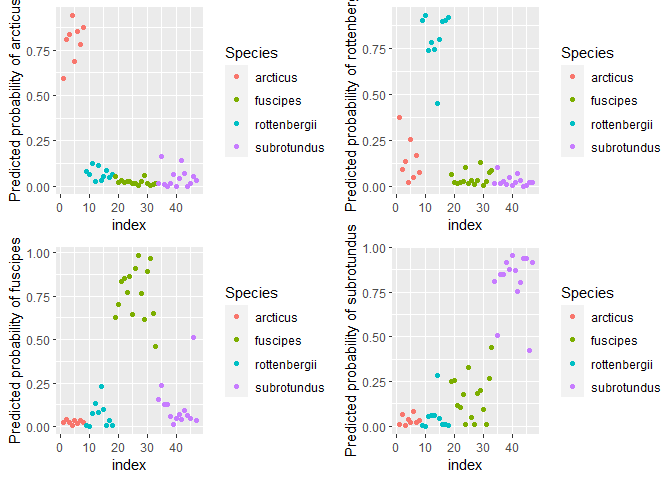
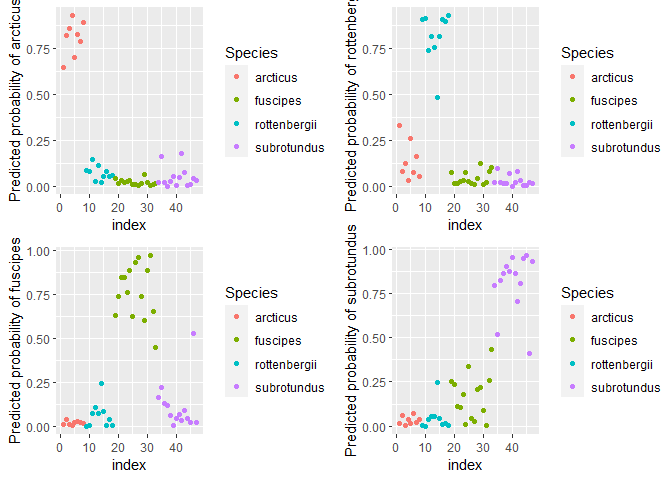
RF model using 25-75 split

diff --git a/ML_Beetles_analysis.md b/ML_Beetles_analysis.md
@@ -466,7 +466,7 @@ train_ctrl <- trainControl(method="cv", # type of resampling in this case Cross-
                            number=10, # number of folds
                            search = "grid", # we are performing a "grid search" for tuning
                            )
-set.seed(301)
+set.seed(874)
 model_rf_60_40 <- train(morphotype ~ .,
                        data = beetle_data_train_60_40,
                        method = "rf", # this will use the randomForest::randomForest function
@@ -488,20 +488,20 @@ model_rf_60_40
 
     No pre-processing
     Resampling: Cross-Validated (10 fold) 
-    Summary of sample sizes: 69, 70, 68, 67, 67, 68, ... 
+    Summary of sample sizes: 69, 66, 68, 69, 69, 68, ... 
     Resampling results across tuning parameters:
 
       mtry  Accuracy   Kappa    
        2    1.0000000  1.0000000
-       3    0.9875000  0.9833333
+       3    1.0000000  1.0000000
        4    1.0000000  1.0000000
-       6    0.9888889  0.9852459
-       7    0.9888889  0.9852459
-       9    0.9888889  0.9852459
-      10    0.9888889  0.9852459
-      12    0.9888889  0.9852459
-      13    0.9763889  0.9685792
-      15    0.9888889  0.9852459
+       6    0.9857143  0.9805556
+       7    0.9857143  0.9805556
+       9    0.9857143  0.9805556
+      10    0.9857143  0.9805556
+      12    0.9857143  0.9805556
+      13    0.9857143  0.9805556
+      15    0.9857143  0.9805556
 
     Accuracy was used to select the optimal model using the largest value.
     The final value used for the model was mtry = 2.
@@ -658,3 +658,209 @@ ggplot(TEST_scored_60_40, aes(x = 1:nrow(TEST_scored_60_40), y = class_60_40, co
 ```
 
 ![](ML_Beetles_analysis_files/figure-gfm/60_40%20plots-2.png)<!-- -->
+
+## Train and test a random forest model: 25-75 split
+
+Next, I will do training and evaluating the 25-75 split. Doing parameter
+tuning for the number of randomly selected predictors in each split
+(mtry), while keeping number of trees constant (ntree=1000). Could also
+tune the number of trees, but seems ok like this for this toy example.
+
+``` r
+# Tuning parameters: using 10-fold cross-validation with a grid search 
+train_ctrl <- trainControl(method="cv", # type of resampling in this case Cross-Validated
+                           number=10, # number of folds
+                           search = "grid", # we are performing a "grid search" for tuning
+                           )
+set.seed(35)
+model_rf_25_75 <- train(morphotype ~ .,
+                       data = beetle_data_train_25_75,
+                       method = "rf", # this will use the randomForest::randomForest function
+                       metric = "Accuracy", # which metric should be optimized for 
+                       trControl = train_ctrl,
+                        tuneLength  = 10, # the number mtry to test, 10 different ones here
+                       # options to be passed to randomForest
+                       ntree = 1000,
+                       keep.forest=TRUE,
+                       importance=TRUE) 
+model_rf_25_75
+```
+
+    Random Forest 
+
+    32 samples
+    15 predictors
+     4 classes: 'arcticus', 'fuscipes', 'rottenbergii', 'subrotundus' 
+
+    No pre-processing
+    Resampling: Cross-Validated (10 fold) 
+    Summary of sample sizes: 29, 30, 30, 28, 28, 28, ... 
+    Resampling results across tuning parameters:
+
+      mtry  Accuracy  Kappa    
+       2    0.975     0.9666667
+       3    0.975     0.9666667
+       4    0.975     0.9666667
+       6    0.975     0.9666667
+       7    0.975     0.9666667
+       9    0.975     0.9666667
+      10    0.975     0.9666667
+      12    0.975     0.9666667
+      13    0.975     0.9666667
+      15    0.975     0.9666667
+
+    Accuracy was used to select the optimal model using the largest value.
+    The final value used for the model was mtry = 2.
+
+``` r
+plot(model_rf_25_75)
+```
+
+![](ML_Beetles_analysis_files/figure-gfm/train%2025-75-1.png)<!-- -->
+
+Using 2 randomly selected predictors (mtry=2) during tree splits gives
+best accuracy.
+
+Check variable importance next:
+
+``` r
+varImpPlot(model_rf_25_75$finalModel)
+```
+
+![](ML_Beetles_analysis_files/figure-gfm/varimportance%20train%2025_75-1.png)<!-- -->
+Slightly different from the previous split, but ok.
+
+Next, how are the performance and confusion matrix for train and test
+set:
+
+``` r
+# Train data
+p_train <- predict(model_rf_25_75, beetle_data_train_25_75)
+confusionMatrix(p_train, factor(beetle_data_train_25_75$morphotype))
+```
+
+    Confusion Matrix and Statistics
+
+                  Reference
+    Prediction     arcticus fuscipes rottenbergii subrotundus
+      arcticus            6        0            0           0
+      fuscipes            0       10            0           0
+      rottenbergii        0        0            7           0
+      subrotundus         0        0            0           9
+
+    Overall Statistics
+                                         
+                   Accuracy : 1          
+                     95% CI : (0.8911, 1)
+        No Information Rate : 0.3125     
+        P-Value [Acc > NIR] : < 2.2e-16  
+                                         
+                      Kappa : 1          
+                                         
+     Mcnemar's Test P-Value : NA         
+
+    Statistics by Class:
+
+                         Class: arcticus Class: fuscipes Class: rottenbergii
+    Sensitivity                   1.0000          1.0000              1.0000
+    Specificity                   1.0000          1.0000              1.0000
+    Pos Pred Value                1.0000          1.0000              1.0000
+    Neg Pred Value                1.0000          1.0000              1.0000
+    Prevalence                    0.1875          0.3125              0.2188
+    Detection Rate                0.1875          0.3125              0.2188
+    Detection Prevalence          0.1875          0.3125              0.2188
+    Balanced Accuracy             1.0000          1.0000              1.0000
+                         Class: subrotundus
+    Sensitivity                      1.0000
+    Specificity                      1.0000
+    Pos Pred Value                   1.0000
+    Neg Pred Value                   1.0000
+    Prevalence                       0.2812
+    Detection Rate                   0.2812
+    Detection Prevalence             0.2812
+    Balanced Accuracy                1.0000
+
+``` r
+## 100% accurate on train data
+
+# Test data
+p_test <- predict(model_rf_25_75, beetle_data_test_25_75)
+confusionMatrix(p_test, factor(beetle_data_test_25_75$morphotype))
+```
+
+    Confusion Matrix and Statistics
+
+                  Reference
+    Prediction     arcticus fuscipes rottenbergii subrotundus
+      arcticus           16        0            0           0
+      fuscipes            0       28            0           0
+      rottenbergii        0        0           20           0
+      subrotundus         0        1            0          26
+
+    Overall Statistics
+                                              
+                   Accuracy : 0.989           
+                     95% CI : (0.9403, 0.9997)
+        No Information Rate : 0.3187          
+        P-Value [Acc > NIR] : < 2.2e-16       
+                                              
+                      Kappa : 0.9851          
+                                              
+     Mcnemar's Test P-Value : NA              
+
+    Statistics by Class:
+
+                         Class: arcticus Class: fuscipes Class: rottenbergii
+    Sensitivity                   1.0000          0.9655              1.0000
+    Specificity                   1.0000          1.0000              1.0000
+    Pos Pred Value                1.0000          1.0000              1.0000
+    Neg Pred Value                1.0000          0.9841              1.0000
+    Prevalence                    0.1758          0.3187              0.2198
+    Detection Rate                0.1758          0.3077              0.2198
+    Detection Prevalence          0.1758          0.3077              0.2198
+    Balanced Accuracy             1.0000          0.9828              1.0000
+                         Class: subrotundus
+    Sensitivity                      1.0000
+    Specificity                      0.9846
+    Pos Pred Value                   0.9630
+    Neg Pred Value                   1.0000
+    Prevalence                       0.2857
+    Detection Rate                   0.2857
+    Detection Prevalence             0.2967
+    Balanced Accuracy                0.9923
+
+``` r
+## 1 wrong fuscipes, else all correct
+```
+
+Visualize the performance/predictions
+
+``` r
+# Obtain probabilities and predicted classes
+probs_25_75 <- predict(model_rf_25_75, beetle_data_test_25_75, "prob")
+class_25_75 <- predict(model_rf_25_75, beetle_data_test_25_75, "raw")
+TEST_scored_25_75 <- cbind(beetle_data_test_25_75, probs_25_75, class_25_75)
+
+# plot of probabilities
+p1 <- ggplot(TEST_scored_25_75, aes(x = 1:nrow(TEST_scored_25_75), y = arcticus,
+    color = morphotype)) + geom_point() + labs(color = "Species", x = "index", y = "Predicted probability of arcticus")
+p2 <- ggplot(TEST_scored_25_75, aes(x = 1:nrow(TEST_scored_25_75), y = rottenbergii,
+    color = morphotype)) + geom_point() + labs(color = "Species", x = "index", y = "Predicted probability of rottenbergii")
+p3 <- ggplot(TEST_scored_25_75, aes(x = 1:nrow(TEST_scored_25_75), y = fuscipes,
+    color = morphotype)) + geom_point() + labs(color = "Species", x = "index", y = "Predicted probability of fuscipes")
+p4 <- ggplot(TEST_scored_25_75, aes(x = 1:nrow(TEST_scored_25_75), y = subrotundus,
+    color = morphotype)) + geom_point() + labs(color = "Species", x = "index", y = "Predicted probability of subrotundus")
+
+ggpubr:::ggarrange(p1, p2, p3, p4, ncol = 2, nrow = 2)
+```
+
+![](ML_Beetles_analysis_files/figure-gfm/25_75%20plots-1.png)<!-- -->
+
+``` r
+# Plot classes
+ggplot(TEST_scored_25_75, aes(x = 1:nrow(TEST_scored_25_75), y = class_25_75, color = morphotype)) +
+    geom_point() + labs(color = "True species", x = "index", y = "Predicted species") +
+    theme_bw()
+```
+
+![](ML_Beetles_analysis_files/figure-gfm/25_75%20plots-2.png)<!-- -->
